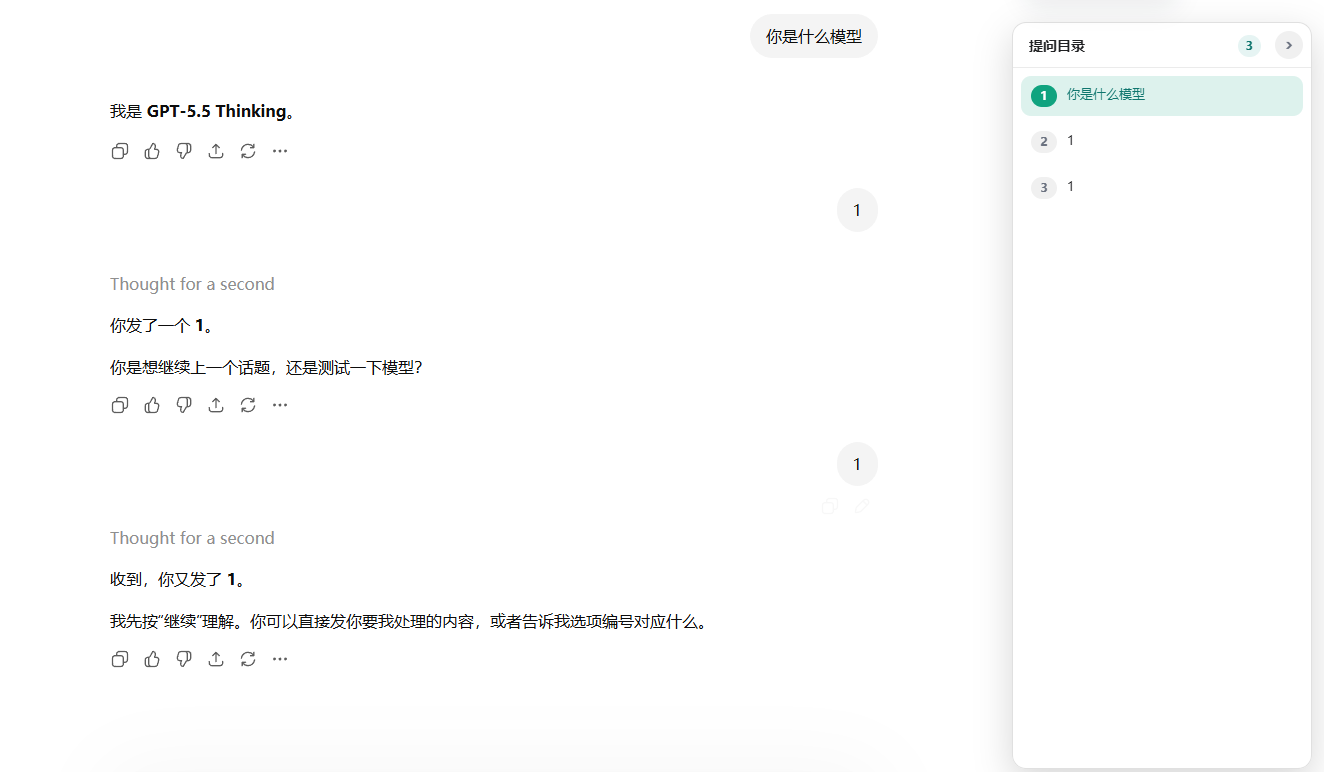
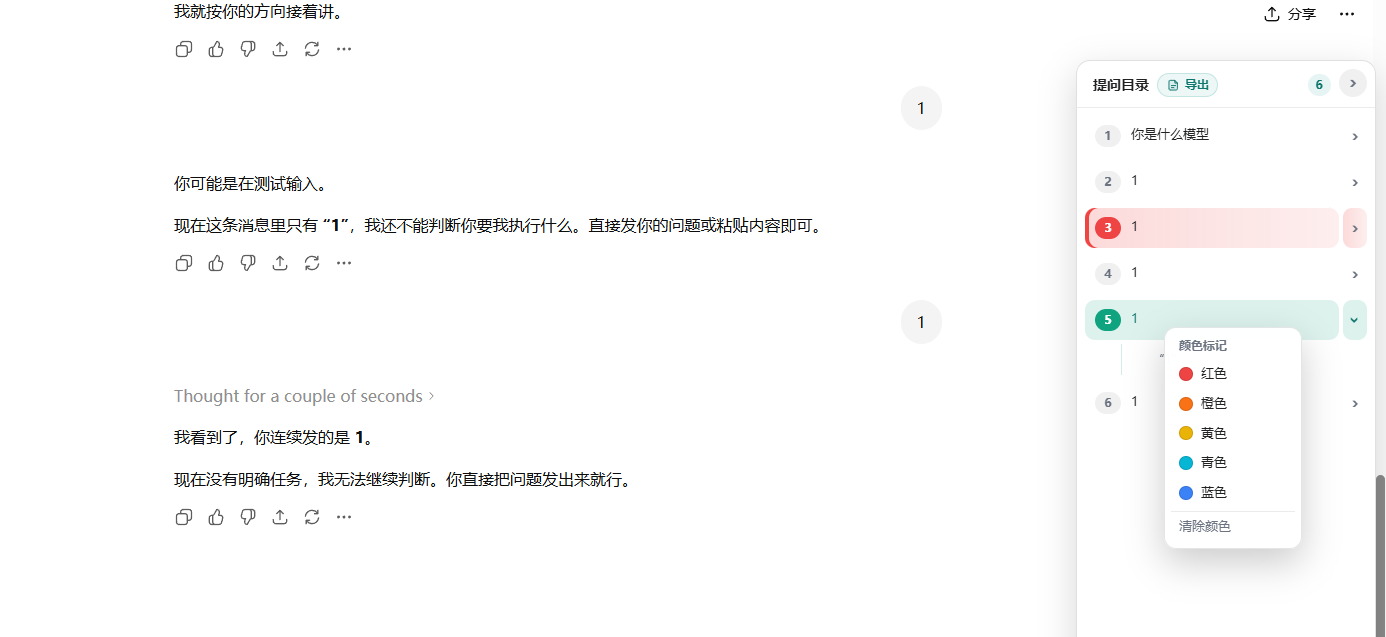
1

diff --git a/content.js b/content.js
@@ -135,6 +135,22 @@
 
   const getStorage = () => globalThis.chrome?.storage?.local || null;
 
+  const readLocalJson = (key, fallbackValue = {}) => {
+    try {
+      return JSON.parse(localStorage.getItem(key) || JSON.stringify(fallbackValue));
+    } catch {
+      return fallbackValue;
+    }
+  };
+
+  const writeLocalJson = (key, value) => {
+    try {
+      localStorage.setItem(key, JSON.stringify(value));
+    } catch {
+      // ignore persistence errors
+    }
+  };
+
   const getColorOption = (colorId) =>
     COLOR_MARKS.colors.find((color) => color.id === colorId) || null;
 
@@ -158,14 +174,11 @@
       const fallback = () => {
         let width = WIDTH.default;
         let collapsed = COLLAPSE.default;
-        let colorMarks = {};
+        let colorMarks = normalizeColorMarks(readLocalJson(COLOR_MARKS.key, {}));
 
         try {
           width = Number(localStorage.getItem(WIDTH.key)) || WIDTH.default;
           collapsed = localStorage.getItem(COLLAPSE.key) === "true";
-          colorMarks = normalizeColorMarks(
-            JSON.parse(localStorage.getItem(COLOR_MARKS.key) || "{}"),
-          );
         } catch {
           // ignore localStorage errors
         }
@@ -196,6 +209,22 @@
               return;
             }
 
+            const storageMarks = normalizeColorMarks(result?.[COLOR_MARKS.key]);
+            const localMarks = normalizeColorMarks(readLocalJson(COLOR_MARKS.key, {}));
+            const colorMarks = {
+              ...localMarks,
+              ...storageMarks,
+            };
+
+            if (Object.keys(localMarks).length || Object.keys(storageMarks).length) {
+              try {
+                storage.set({ [COLOR_MARKS.key]: colorMarks });
+              } catch {
+                // ignore sync-back errors
+              }
+              writeLocalJson(COLOR_MARKS.key, colorMarks);
+            }
+
             resolve({
               width: clamp(
                 Number(result?.[WIDTH.key]) || WIDTH.default,
@@ -203,7 +232,7 @@
                 WIDTH.max,
               ),
               collapsed: Boolean(result?.[COLLAPSE.key]),
-              colorMarks: normalizeColorMarks(result?.[COLOR_MARKS.key]),
+              colorMarks,
             });
           },
         );
@@ -253,17 +282,12 @@
       const storage = getStorage();
       if (storage) {
         storage.set({ [COLOR_MARKS.key]: colorMarks });
-        return;
       }
     } catch {
       // fall back to localStorage
     }
 
-    try {
-      localStorage.setItem(COLOR_MARKS.key, JSON.stringify(colorMarks));
-    } catch {
-      // ignore persistence errors
-    }
+    writeLocalJson(COLOR_MARKS.key, colorMarks);
   };
 
   const applyWidth = (width) => {

diff --git a/README.md b/README.md
@@ -30,11 +30,3 @@
 - 点击目录项可跳转到对应用户提问。
 - 目录支持折叠和拖拽调整宽度。
 
-
-## 🙏 致谢
-
-感谢真诚、友善、团结、专业的 [LinuxDo](https://linux.do/) 社区，让我学到那么多有关 AI 相关知识。
-
-- [LinuxDo](https://linux.do/) 学 AI，上 L 站！
-
-
